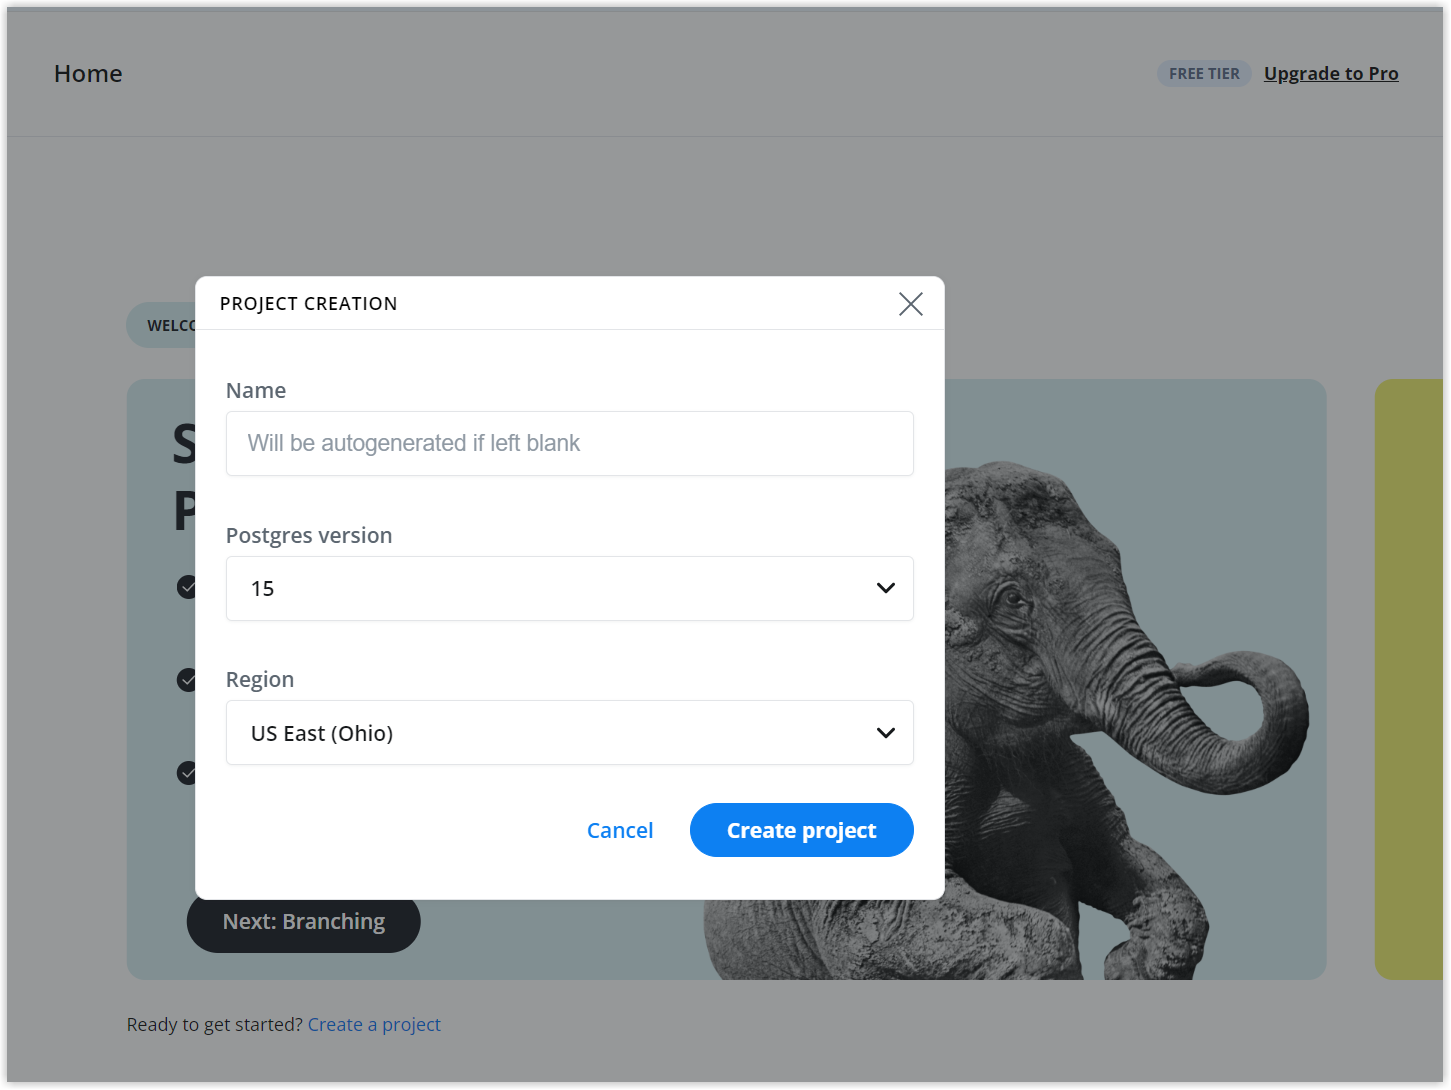
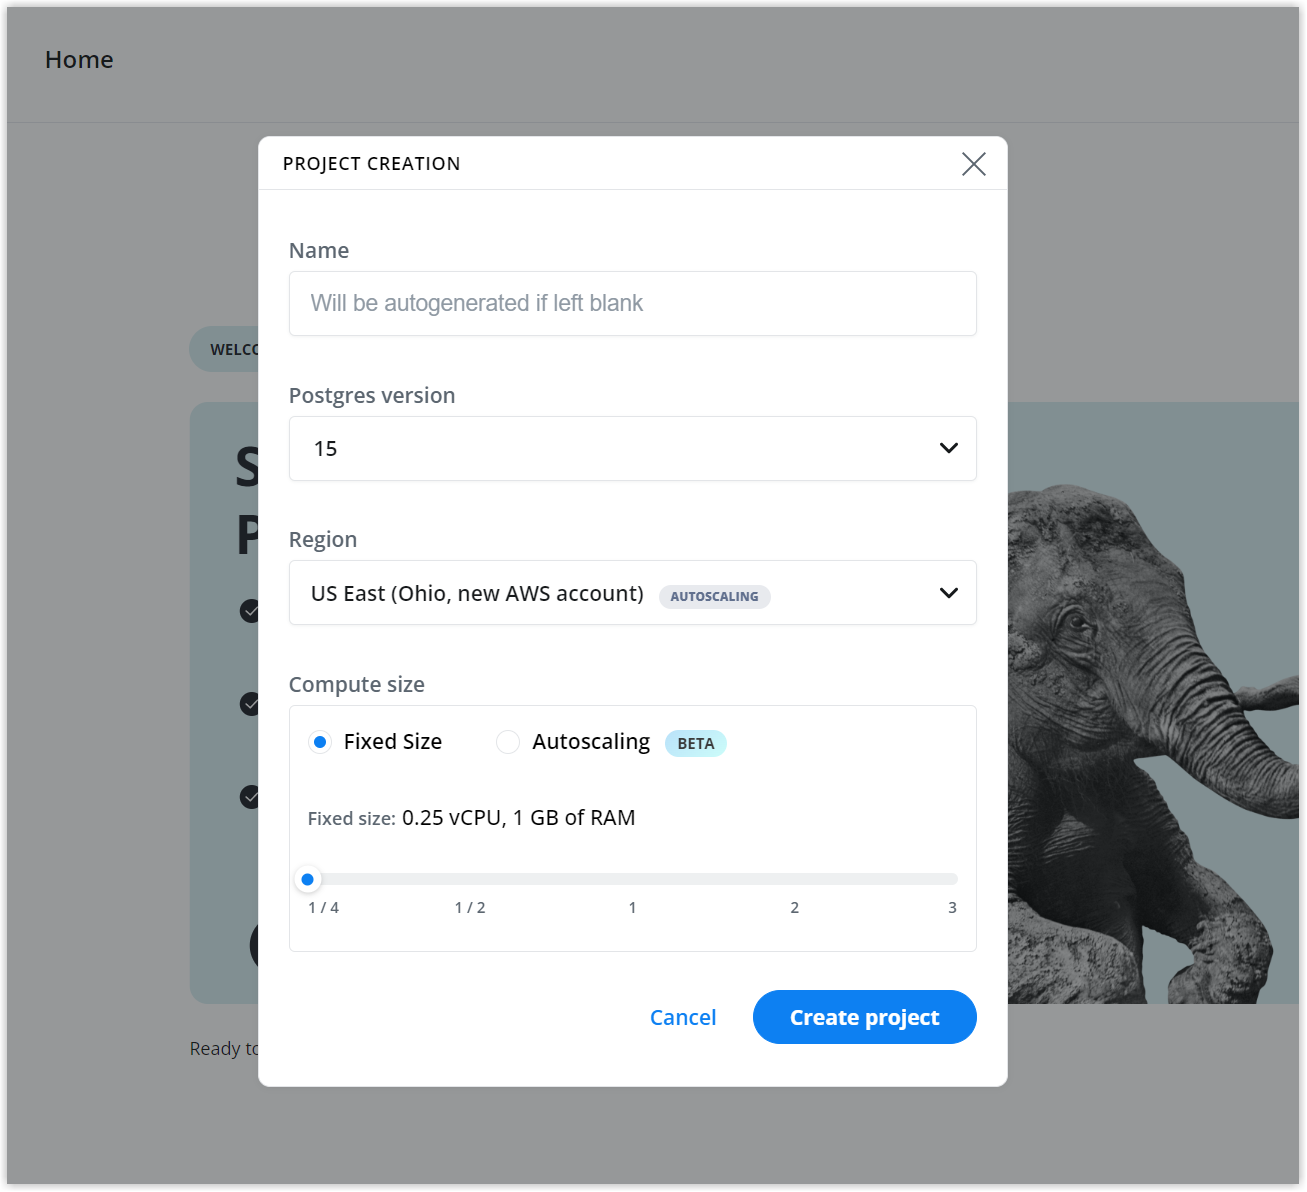
Updates for autoscaling

diff --git a/content/docs/manage/endpoints.md b/content/docs/manage/endpoints.md
@@ -47,18 +47,31 @@ For more information connection pooling in Neon, see [Connection pooling](/docs/
 
 ## Edit a compute endpoint
 
-You can edit a compute endpoint to change the branch that it is associated with. The branch you want to associated the endpoint with cannot have an existing compute endpoint.
-
-<Admonition type="note">
-Enabling connection pooling for a compute endpoint is deprecated. You can enable connection pooling for individual connections instead. For more information, see [Enable connection pooling](https://neon.tech/docs/connect/connection-pooling#enable-connection-pooling).
-</Admonition>
+Neon paid plan users can edit a compute endpoint to change the [compute size configuration](#compute-size-configuration).
 
 To edit a compute endpoint:
 
 1. In the Neon Console, select **Branches**.
 1. Select a branch.
 1. Click the compute endpoint kebab menu, and select **Edit**.
-1. Select a new branch and click **Save**.
+1. Specify your changes and click **Save**.
+
+<Admonition type="note">
+Enabling connection pooling for a compute endpoint is deprecated. You can enable connection pooling for individual connections instead. For more information, see [Enable connection pooling](https://neon.tech/docs/connect/connection-pooling#enable-connection-pooling).
+</Admonition>
+
+### Compute size configuration
+
+_Compute size_ is the number of Compute Units (CUs) assigned to a Neon compute endpoint. The number of CUs determines the processing capacity of the compute endpoint. One CU is equal to 1 vCPU with 4 GBs of RAM. Currently, a Neon compute endpoint can have anywhere from .25 CUs to 3 CUs. Larger compute sizes will be supported in a future release.
+
+Neon supports two compute size configuration options:
+
+- **Fixed Size:** This option allows you to select a fixed compute size ranging from .25 CUs to 3 CUs. A fixed-size compute does not scale to meet workload demand.
+- **Autoscaling:** This option allows you to specify a minimum and maximum compute size. Neon scales the compute size up and down within the selected compute size boundaries to meet workload demand. Currently, _Autoscaling_ supports a range of 1 to 3 CUs. Partial minimum compute size settings (1/4 CUs and 1/2 CUs), called _shared compute_, will be supported in a future release.
+
+<Admonition type="note">
+Switching between **Fixed Size** and **Autoscaling** is not yet supported.
+</Admonition>
 
 ## Delete a compute endpoint
 

diff --git a/content/docs/manage/projects.md b/content/docs/manage/projects.md
@@ -17,15 +17,25 @@ A Neon project is created with the following resources, by default:
 
 ## Create a project
 
-Neon Free Tier users can create a single project. Paid plans can have multiple projects.
+Neon Free Tier users can create a single project. Support for multiple projects is available to Neon [paid plan](/docs/introduction/billing#neon-plans) users.
 
 To create a Neon project:
 
 1. Navigate to the [Neon Console](https://console.neon.tech).
 2. If you are creating your very first project, click **Create a project**. Otherwise, click **New Project**.
-3. Specify a name, a PostgreSQL version, and a region, and click **Create Project**.
+3. Specify a name, a PostgreSQL version, and a region. If you are a Neon [paid plan](/docs/introduction/billing#neon-plans) user, you can also specify compute size settings. Neon supports fixed size computes and _Autoscaling_. For more information, see [Compute size configuration](#compute-size-configuration).
+4. Click **Create Project**.
 
 Upon creating a project, you are presented with a dialog that provides your connection details for the default `neondb` database, including your password.
+
+### Compute size configuration
+
+_Compute size_ is the number of Compute Units (CUs) assigned to a Neon compute endpoint. The number of CUs determines the processing capacity of the compute endpoint. One CU is equal to 1 vCPU with 4 GBs of RAM. Currently, a Neon compute endpoint can have anywhere from .25 CUs to 3 CUs. Larger compute sizes will be supported in a future release.
+
+Neon supports two compute size configuration options:
+
+- **Fixed Size:** This option allows you to select a fixed compute size ranging from .25 CUs to 3 CUs. A fixed-size compute does not scale to meet workload demand.
+- **Autoscaling:** This option allows you to specify a minimum and maximum compute size. Neon scales the compute size up and down within the selected compute size boundaries to meet workload demand. Currently, _Autoscaling_ supports a range of 1 to 3 CUs. Partial minimum compute size settings (1/4 CUs and 1/2 CUs), called _shared compute_, will be supported in a future release.
 
 ## View projects
 

diff --git a/content/docs/get-started-with-neon/setting-up-a-project.md b/content/docs/get-started-with-neon/setting-up-a-project.md
@@ -10,11 +10,13 @@ To create your first project:
 
 ![Create a project](/docs/get-started-with-neon/create_project.png)
 
-3. On the **Project Creation** dialog, Specify a name, a PostgreSQL version, and a region, and click **Create project**.
+3. On the **Project Creation** dialog, specify a name, a PostgreSQL version, and a region. If you are a [Neon paid plan](https://neon.tech/docs/introduction/billing#neon-plans) user, you can also specify compute size settings. Neon supports fixed size computes and Autoscaling. For more information about these options, see [Compute size configuration](/docs/manage/projects#compute-size-configuration).
 
 ![Select project options](/docs/get-started-with-neon/select_project_options.png)
 
-4. You are presented with the connection details for your new project. You can save the connection details or retrieve them later from the **Connection details** widget on the Neon **Dashboard**.
+4. Click **Create project**.
+
+5. You are presented with the connection details for your new project. You can save the connection details or retrieve them later from the **Connection details** widget on the Neon **Dashboard**.
 
 ![Connection details dialog](/docs/get-started-with-neon/connection_details_modal.png)
 
